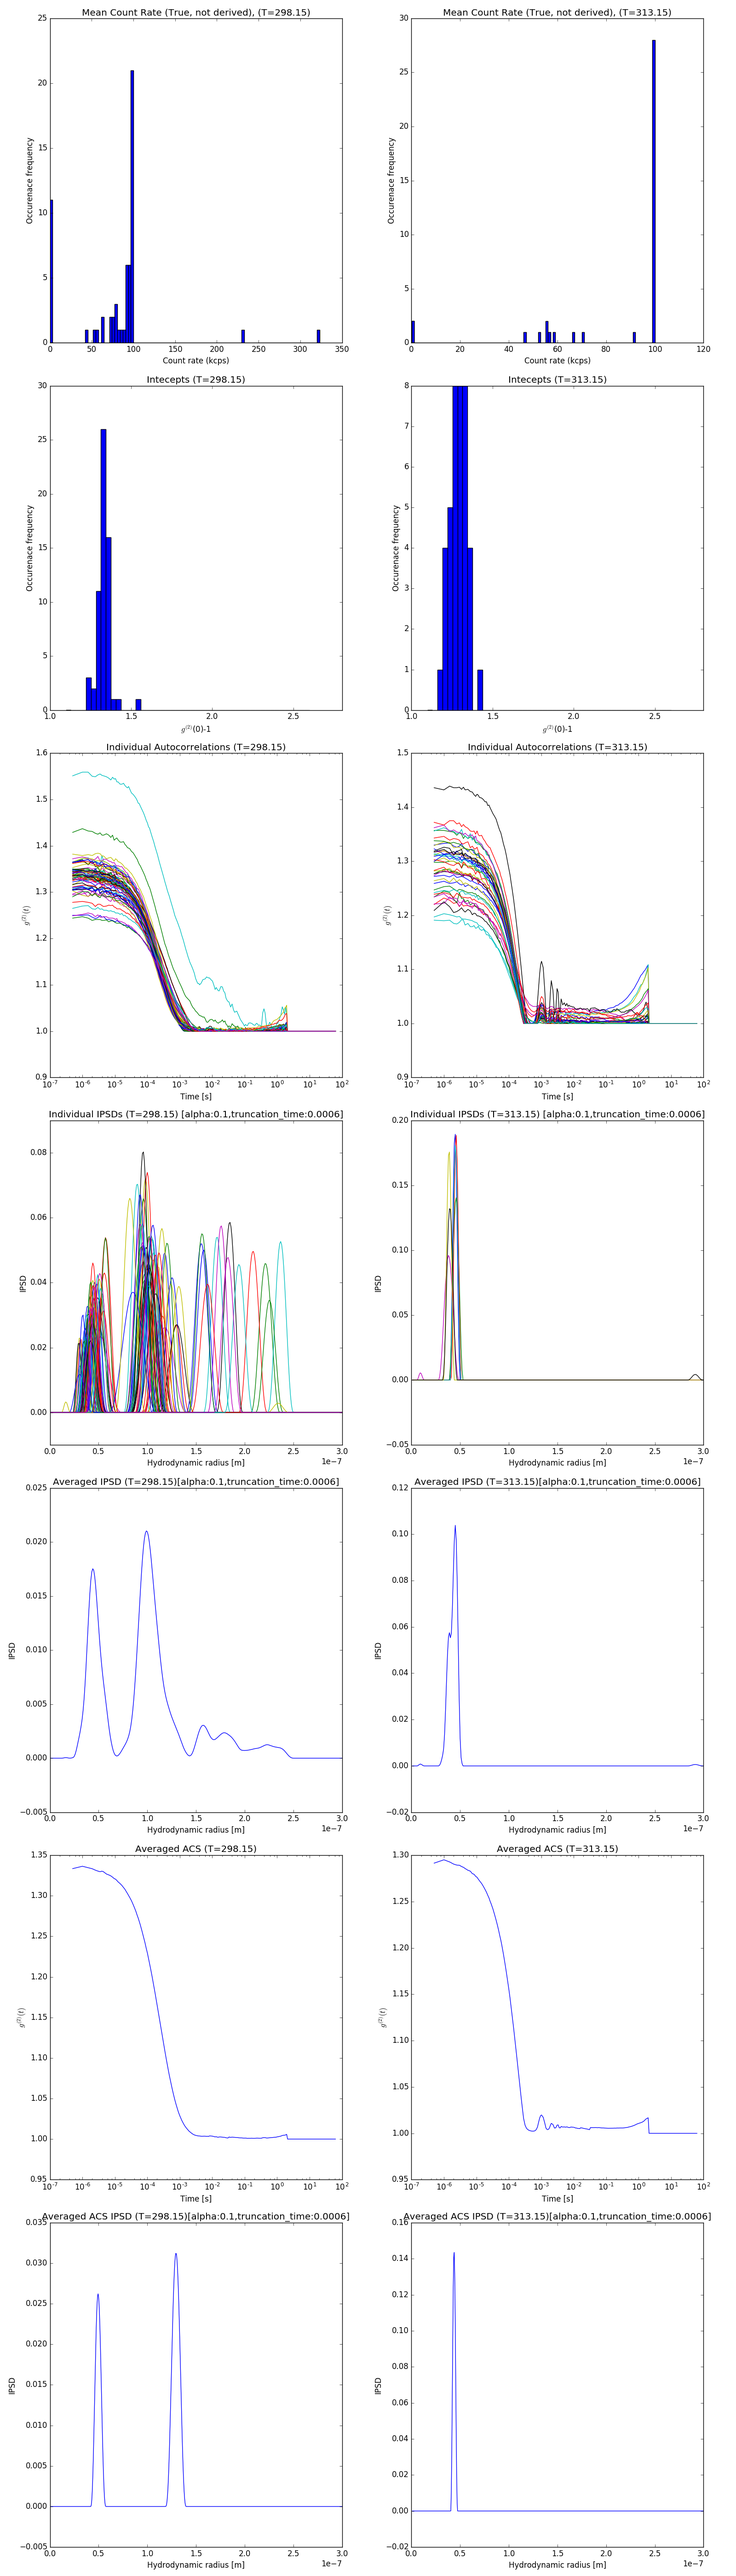
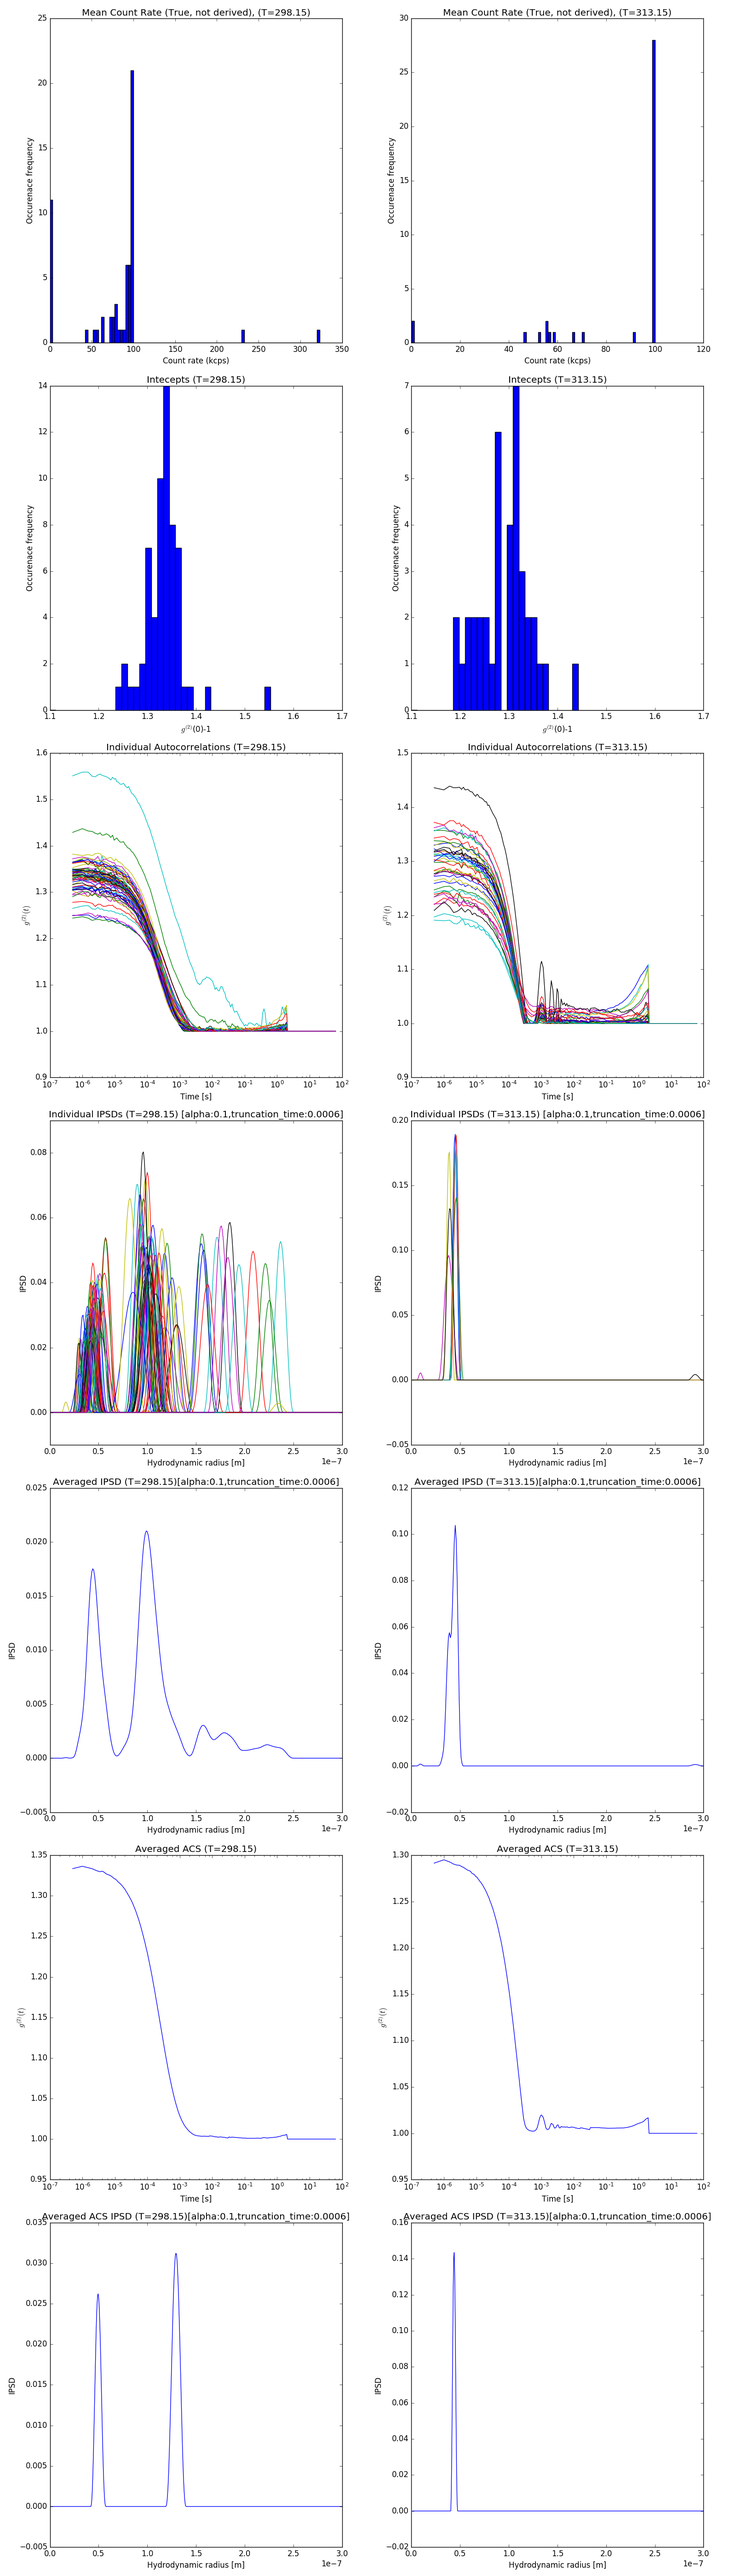
Different sizes

Changed region(s): [[0.5938, 0.1562, 0.8125, 0.2812], [0.0938, 0.1562, 0.2812, 0.2812]]

diff --git a/analysis.py b/analysis.py
@@ -155,6 +155,8 @@ for i in [0,1]:
 		temperature = 25.0
 	if i == 1:
 		temperature = 40.0
+
+
 	#count rate distribution
 	axarr[0][i].hist(analysis_struct[i]["count_rates"],bins=100)
 	axarr[0][i].set_title("Mean Count Rate (True, not derived), (T={0})".format(analysis_struct[i]["temperature"]))
@@ -162,7 +164,7 @@ for i in [0,1]:
 	axarr[0][i].set_ylabel("Occurenace frequency")
 
 	#histogram of intercepts
-	axarr[1][i].hist(analysis_struct[i]["intercepts"],bins=np.linspace(1.1,2.6,50))
+	axarr[1][i].hist(analysis_struct[i]["intercepts"],bins=np.linspace(1.1,1.7,50))
 	axarr[1][i].set_title("Intecepts (T={})".format(analysis_struct[i]["temperature"]))
 	axarr[1][i].set_xlabel("$g^{(2)}$(0)-1")
 	axarr[1][i].set_ylabel("Occurenace frequency")
